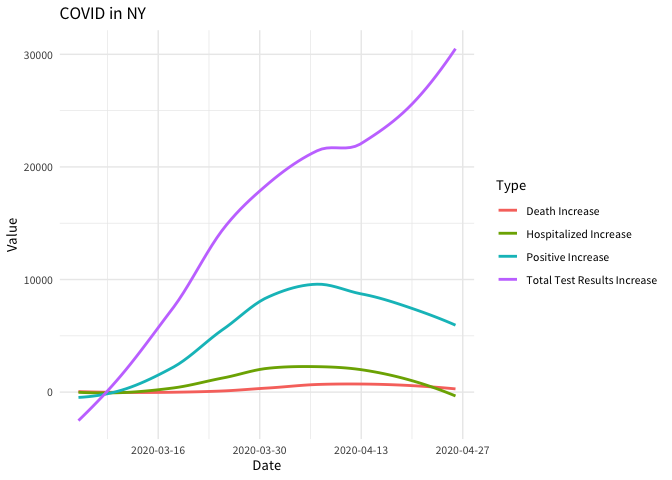
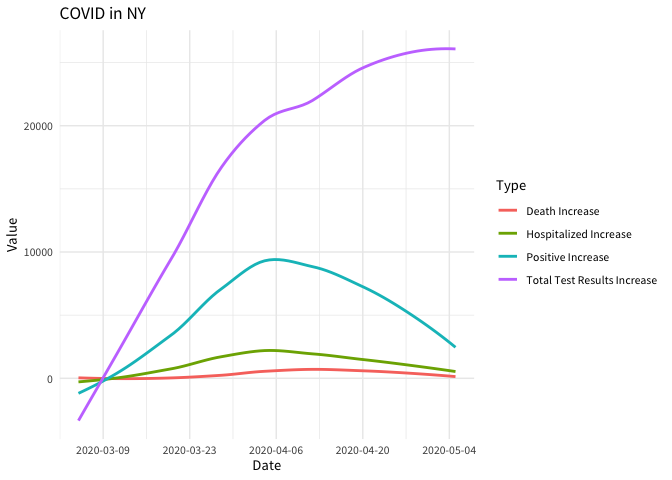
bump version

diff --git a/README.md b/README.md
@@ -41,7 +41,7 @@ get_us_current()
 #> # A tibble: 1 x 18
 #>   positive negative pending hospitalized_cu… hospitalized_cu… in_icu_currently
 #>      <int>    <int>   <int>            <int>            <int>            <int>
-#> 1   959056  4482023    4445            55030            95810            14831
+#> 1  1195605  6348723    2633            50906           129357             9348
 #> # … with 12 more variables: in_icu_cumulative <int>,
 #> #   on_ventilator_currently <int>, on_ventilator_cumulative <int>,
 #> #   recovered <int>, hash <chr>, last_modified <chr>, death <int>,
@@ -53,19 +53,22 @@ Or the same by state:
 
 ``` r
 get_states_current()
+#> Warning: All formats failed to parse. No formats found.
+
+#> Warning: All formats failed to parse. No formats found.
 #> # A tibble: 56 x 30
 #>    state positive positive_score negative_score negative_regula…
 #>    <chr>    <int>          <int>          <int>            <int>
-#>  1 AK         341              1              1                1
-#>  2 AL        6270              1              1                0
-#>  3 AR        2941              1              1                1
-#>  4 AZ        6526              1              1                0
-#>  5 CA       42164              1              1                0
-#>  6 CO       12968              1              1                1
-#>  7 CT       25269              1              1                1
-#>  8 DC        3841              1              1                1
-#>  9 DE        4034              1              1                1
-#> 10 FL       31528              1              1                1
+#>  1 AK         371              1              1                1
+#>  2 AL        8285              1              1                0
+#>  3 AR        3496              1              1                1
+#>  4 AZ        9305              1              1                0
+#>  5 CA       56212              1              1                0
+#>  6 CO       16907              1              1                1
+#>  7 CT       30621              1              1                1
+#>  8 DC        5322              1              1                1
+#>  9 DE        5371              1              1                1
+#> 10 FL       37439              1              1                1
 #> # … with 46 more rows, and 25 more variables: commercial_score <int>,
 #> #   grade <chr>, score <int>, notes <chr>, data_quality_grade <chr>,
 #> #   negative <int>, pending <int>, hospitalized_currently <int>,
@@ -84,15 +87,16 @@ get_states_daily(
   state = "NY", 
   date = "2020-03-17"
 )
-#> # A tibble: 1 x 25
+#> # A tibble: 1 x 27
 #>   date       state positive negative pending hospitalized_cu… hospitalized_cu…
-#>   <date>     <chr>    <int>    <int> <lgl>   <lgl>            <lgl>           
-#> 1 2020-03-17 NY        1700     5506 NA      NA               NA              
-#> # … with 18 more variables: in_icu_currently <lgl>, in_icu_cumulative <lgl>,
-#> #   on_ventilator_currently <lgl>, on_ventilator_cumulative <lgl>,
-#> #   recovered <lgl>, hash <chr>, date_checked <dttm>, death <int>,
-#> #   hospitalized <lgl>, total <int>, total_test_results <int>, fips <chr>,
-#> #   death_increase <int>, hospitalized_increase <int>, negative_increase <int>,
+#>   <date>     <chr>    <int>    <int>   <int>            <int>            <int>
+#> 1 2020-03-17 NY        1700     5506      NA              325               NA
+#> # … with 20 more variables: in_icu_currently <int>, in_icu_cumulative <int>,
+#> #   on_ventilator_currently <int>, on_ventilator_cumulative <int>,
+#> #   recovered <int>, data_quality_grade <chr>, last_update <dttm>, hash <chr>,
+#> #   date_checked <dttm>, death <int>, hospitalized <int>, total <int>,
+#> #   total_test_results <int>, fips <chr>, death_increase <int>,
+#> #   hospitalized_increase <int>, negative_increase <int>,
 #> #   positive_increase <int>, total_test_results_increase <int>,
 #> #   request_datetime <dttm>
 ```
@@ -101,20 +105,20 @@ For data in long format:
 
 ``` r
 (dat <- refresh_covid19us())
-#> # A tibble: 55,803 x 7
+#> # A tibble: 65,227 x 7
 #>    date       location location_type location_code location_code_t… data_type
 #>    <date>     <chr>    <chr>         <chr>         <chr>            <chr>    
-#>  1 2020-04-26 AK       state         02            fips_code        positive 
-#>  2 2020-04-26 AK       state         02            fips_code        negative 
-#>  3 2020-04-26 AK       state         02            fips_code        pending  
-#>  4 2020-04-26 AK       state         02            fips_code        hospital…
-#>  5 2020-04-26 AK       state         02            fips_code        hospital…
-#>  6 2020-04-26 AK       state         02            fips_code        in_icu_c…
-#>  7 2020-04-26 AK       state         02            fips_code        in_icu_c…
-#>  8 2020-04-26 AK       state         02            fips_code        on_venti…
-#>  9 2020-04-26 AK       state         02            fips_code        on_venti…
-#> 10 2020-04-26 AK       state         02            fips_code        recovered
-#> # … with 55,793 more rows, and 1 more variable: value <int>
+#>  1 2020-05-05 AK       state         02            fips_code        positive 
+#>  2 2020-05-05 AK       state         02            fips_code        negative 
+#>  3 2020-05-05 AK       state         02            fips_code        pending  
+#>  4 2020-05-05 AK       state         02            fips_code        hospital…
+#>  5 2020-05-05 AK       state         02            fips_code        hospital…
+#>  6 2020-05-05 AK       state         02            fips_code        in_icu_c…
+#>  7 2020-05-05 AK       state         02            fips_code        in_icu_c…
+#>  8 2020-05-05 AK       state         02            fips_code        on_venti…
+#>  9 2020-05-05 AK       state         02            fips_code        on_venti…
+#> 10 2020-05-05 AK       state         02            fips_code        recovered
+#> # … with 65,217 more rows, and 1 more variable: value <int>
 ```
 
 Which can be easier to plot
